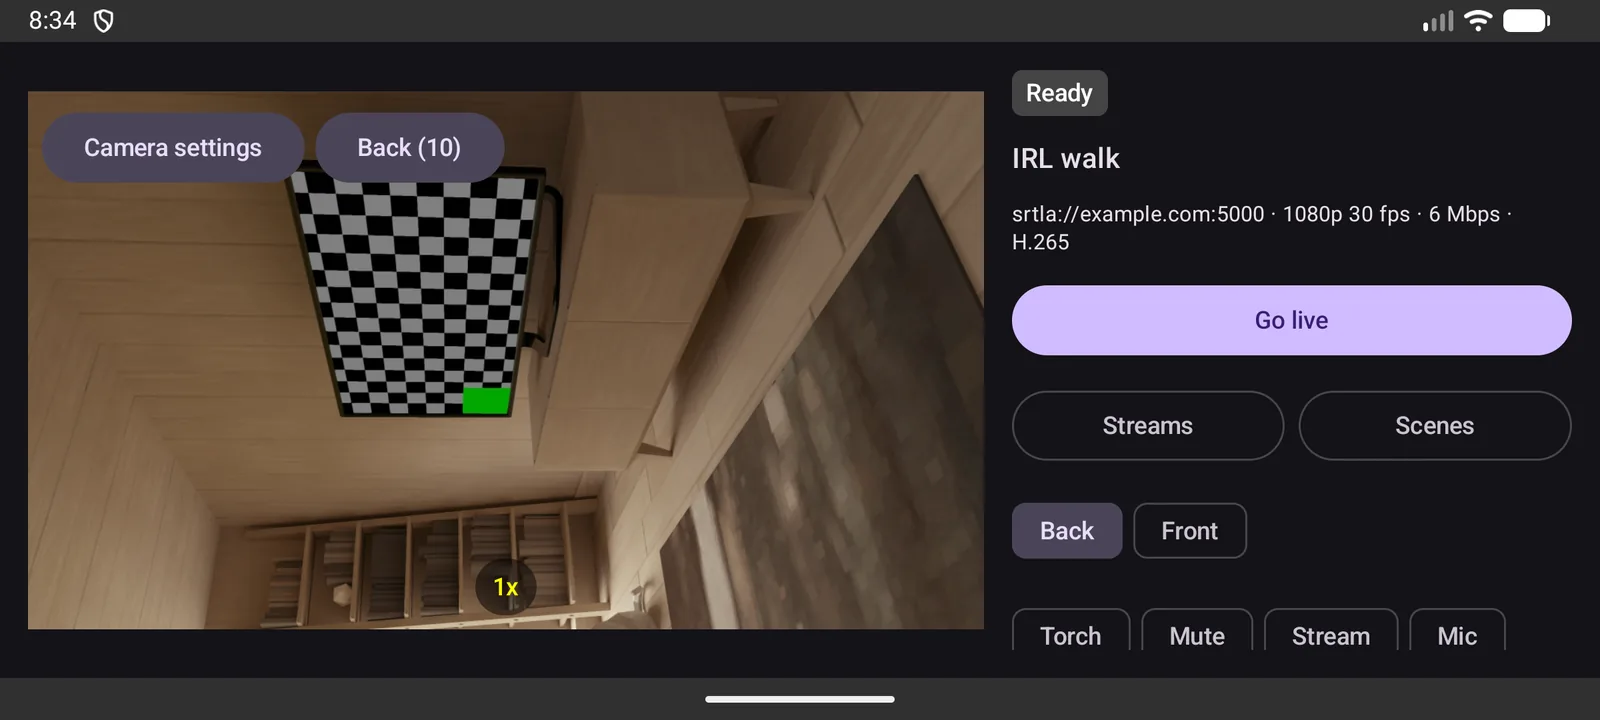
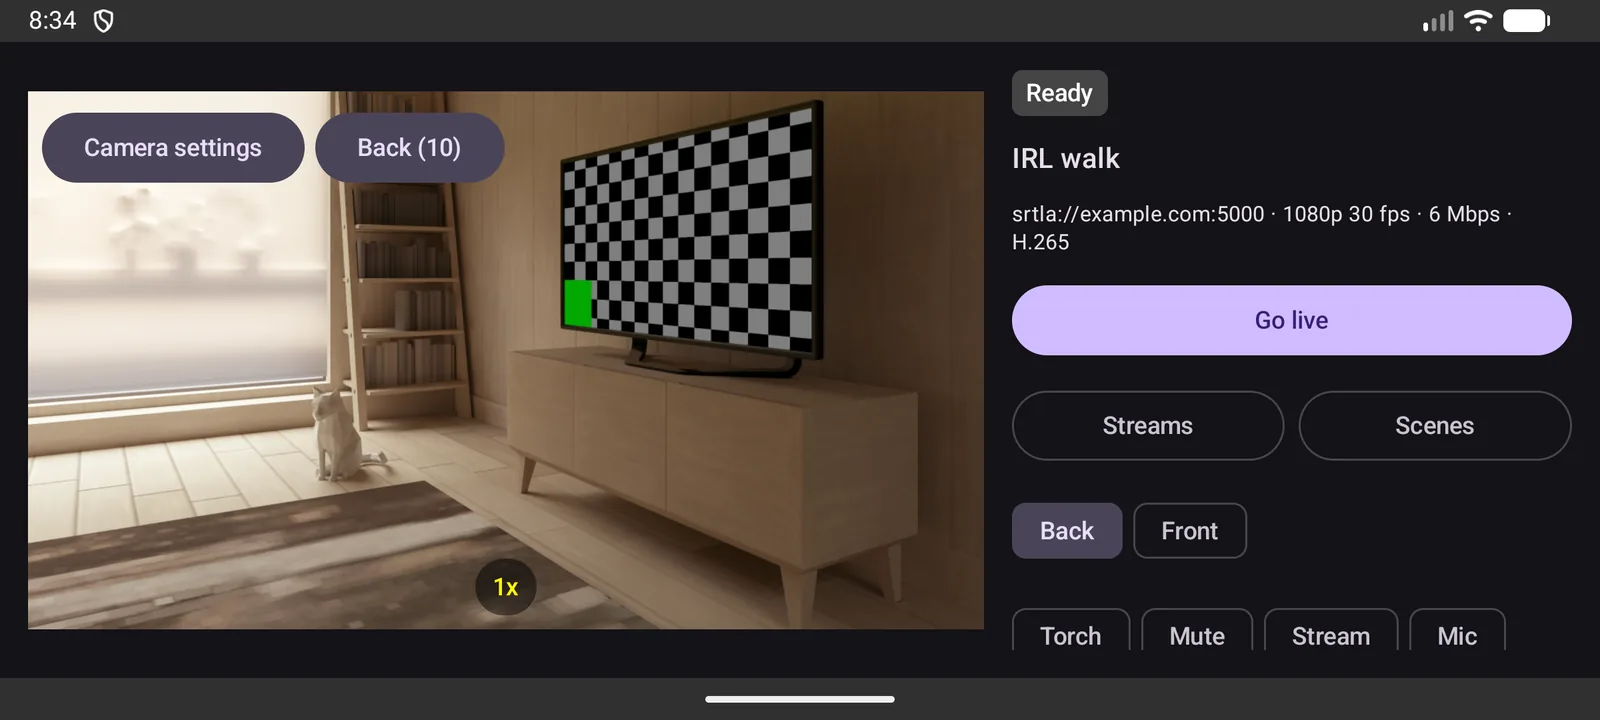
Screenshots: camera upright; RTMP ingest plan decided
The main-screen screenshots (F-Droid 1 and 2, README and website) showed
the emulator's virtual camera scene sideways. The display had been forced
to landscape while the emulator's virtual phone stayed upright; the app
draws the same transform on the S26, where the picture is upright.
Retaken with the emulator itself rotated; screenshot 2 now shows the full
quick-button grid, including OBS and Connection priorities. RELEASING.md
says how to take them.

RTMP server ingest plan: the open questions are decided (the recommended
option each time, as close to Moblin as security and Android allow).

diff --git a/docs/plans/2026-11-14-rtmp-server-ingest.md b/docs/plans/2026-11-14-rtmp-server-ingest.md
@@ -1,7 +1,8 @@
 # Plan: RTMP server ingest (port of Moblin's RTMP server)
 
-**Status:** proposed, awaiting the maintainer's answers to the open questions (section 10). Based
-on reading upstream `97e26d2` and NexusIRL `main` on 2026-11-14; nothing is built yet.
+**Status:** approved on 2026-11-14, with the open questions decided (section 10): behave as much
+like Moblin as possible, deviating only where security or Android requires it. Based on reading
+upstream `97e26d2` and NexusIRL `main` on 2026-11-14.
 
 **Goal:** the phone accepts an RTMP publish (from OBS, a GoPro, a drone or another phone) and uses
 it as a scene's video source and, optionally, as the audio source, the way Moblin does, with
@@ -153,8 +154,8 @@ Moblin-compatible settings.
 
 ## 5. Decoding and timing
 
-- **Timestamp zero:** per client instead of per chunk stream, a recorded deviation (open
-  question 4). The 32-bit wrap is handled.
+- **Timestamp zero:** per client instead of per chunk stream, a recorded deviation (decision
+  4). The 32-bit wrap is handled.
 - **Two video stages:** Android cannot hold seconds of decoded frames.
   - Compressed frames wait in the jitter buffer and are fed to the decoder when
     `dts + drift ≤ outputPts + decodeAhead` (150–500 ms, adaptive). At most 6 frames are held
@@ -171,8 +172,8 @@ Moblin-compatible settings.
 
 ## 6. Security and limits
 
-- **Off by default.** An import never enables the server: the device keeps its own value (open
-  question 1).
+- **Off by default.** An import never enables the server: the device keeps its own value (decision
+  1).
 - **Binding:** wildcard address. The peer check (`isAllowedLocalAddress`, which refuses cellular)
   runs before any byte is read. Only LAN addresses are shown as URLs.
 - **Authentication:**
@@ -249,17 +250,19 @@ Moblin-compatible settings.
 - **Harness defaults:** the upstream harness imports `enabled:true` and key `"1"`, which conflicts
   with the hardening.
 
-## 10. Open questions for the maintainer
+## 10. Decisions (2026-11-14)
 
-1. When an imported file sets `rtmpServer.enabled=true`: always keep the device's own value
-   (recommended), or allow it after on-device confirmation?
-2. Weak stream keys (the harness uses `"1"`): accept them with a warning (recommended), or enforce
-   a minimum length?
-3. Server lifetime: only while the app is visible, live or recording (recommended for the MVP), or
-   whenever enabled, as upstream does?
-4. Timestamp zero per client (recommended), or upstream's per-chunk-stream quirk?
-5. Switch to RTMP audio automatically on connect, as upstream does with auto-switch?
-6. Release the built-in camera while an RTMP scene is selected, as upstream does?
-7. At most 2 sources decoding at once in the MVP?
-8. Accept enhanced-RTMP Opus audio, which upstream rejects?
-9. Is the video-source widget needed in the first release?
+The maintainer chose the recommended option for each question, with the guiding rule that the
+feature should work as much like Moblin as possible.
+
+| # | Question | Decision | Same as Moblin? |
+|---|---|---|---|
+| 1 | Imported `rtmpServer.enabled=true` | The device keeps its own value; an import never turns the server on | No: security (same treatment as `allowSettingsImport`) |
+| 2 | Weak stream keys (the harness uses `"1"`) | Accepted, with a warning in the stream screen; new keys are random as upstream's | Yes, plus a warning |
+| 3 | Server lifetime | While the app is visible, live or recording | Yes in practice: iOS suspends Moblin in the background unless it is live |
+| 4 | Timestamp zero | Per client, not per chunk stream | No: fixes a fixed A/V offset; recorded in PORTING.md |
+| 5 | Switch to RTMP audio on connect | Yes, through the mic list's auto-switch, as upstream | Yes |
+| 6 | Release the built-in camera while an RTMP scene is selected | Yes, as upstream | Yes |
+| 7 | Sources decoding at once | At most 2 in the MVP | Android limit (decoder count and heat) |
+| 8 | Enhanced-RTMP Opus audio | Rejected with upstream's "Only AAC is supported" message; may come later | Yes |
+| 9 | Video-source widget in the first release | No, it stays in "Later" | Yes (upstream added it after the server) |

diff --git a/docs/RELEASING.md b/docs/RELEASING.md
@@ -56,6 +56,16 @@ Then add four repository secrets (GitHub → Settings → Secrets and variables 
    release from GitHub when it is built and uses this value only if that fails.
 2. Commit, then tag and push: `git tag v0.1.0 && git push origin v0.1.0`.
 
+## Store and website screenshots
+
+`fastlane/metadata/android/en-US/images/phoneScreenshots/` (F-Droid) and
+`docs/assets/img/app-*.webp` (README and website) are taken on the emulator, with a sample
+stream to `example.com` and no keys. Turn the emulator to landscape with its own rotate control
+(or `adb emu rotate`), not with `settings put system user_rotation`: forcing the display leaves
+the virtual camera scene upright for a portrait phone, so the preview looks sideways (the app is
+right; real phones are not affected). Take them with `adb emu screenrecord screenshot <dir>`, as
+`adb exec-out screencap` can return a stale or black frame on the emulator.
+
 ## Local release builds
 
 Set the same variables, with `NEXUSIRL_KEYSTORE` pointing at the `.jks` file, then run
